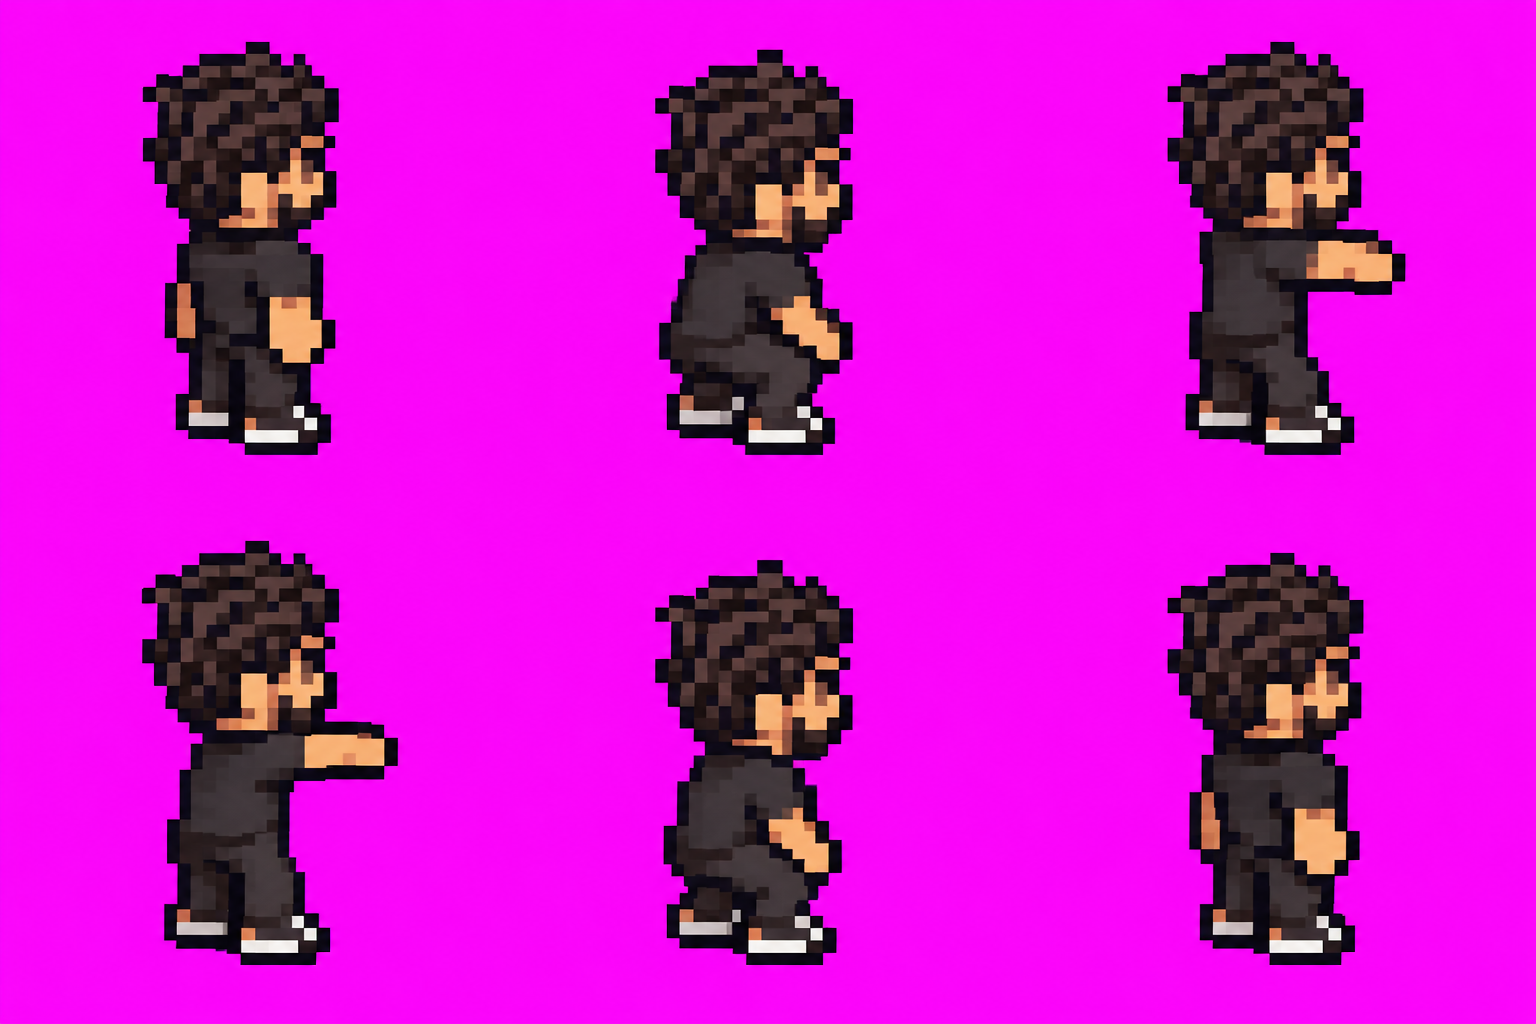
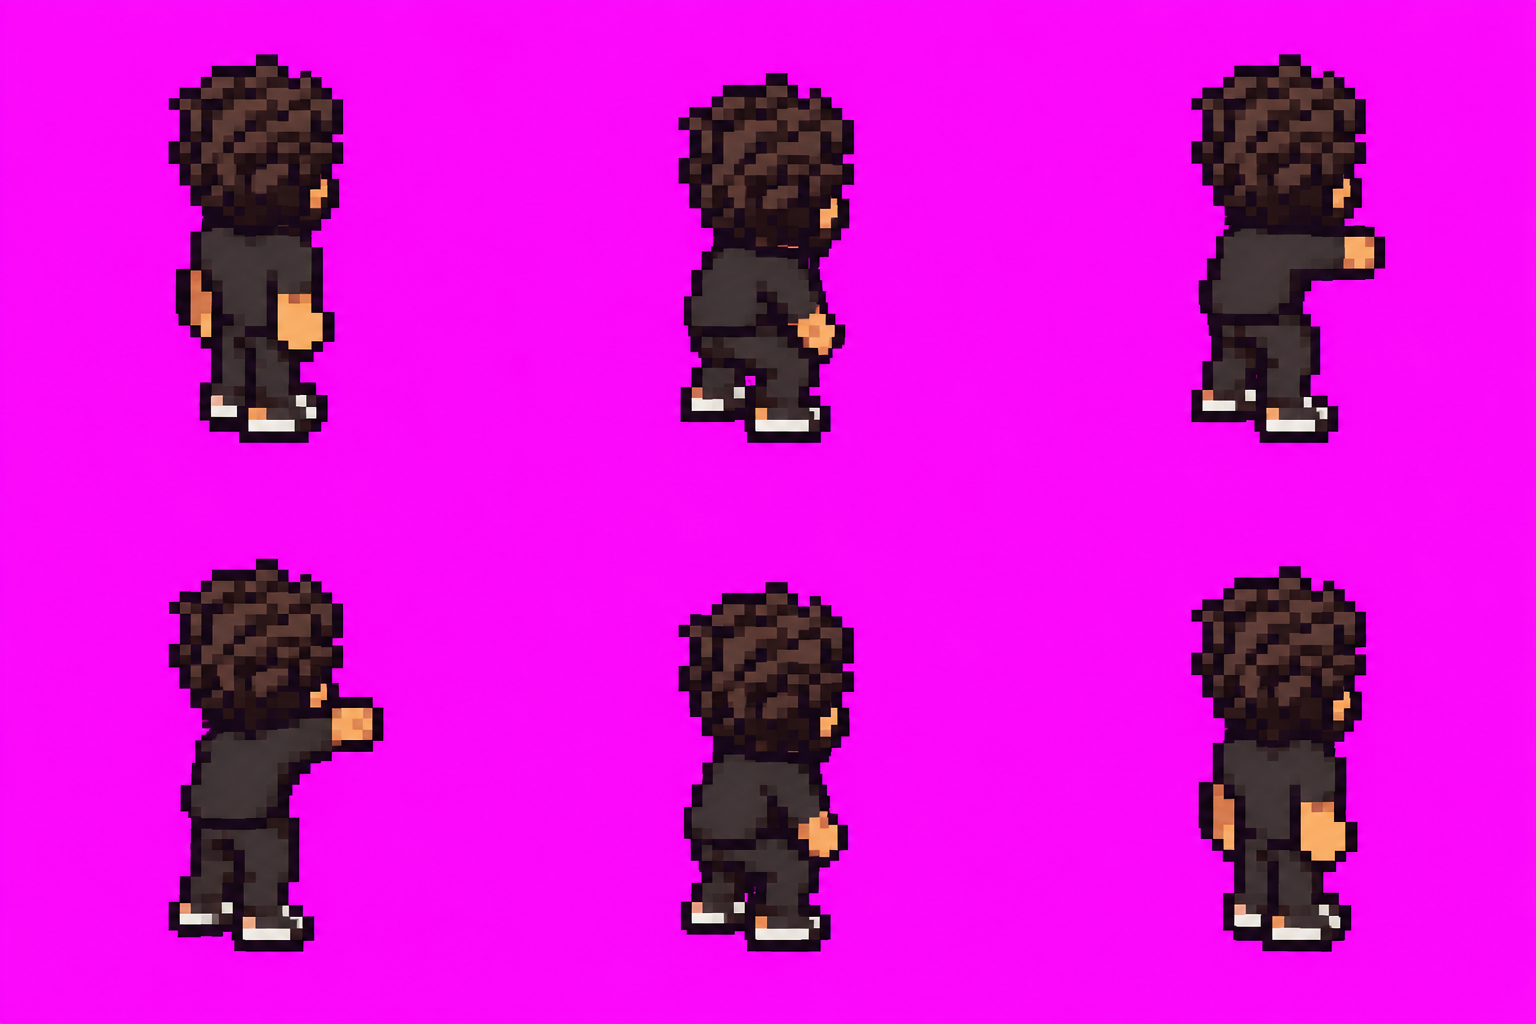
fix(pixel-art): vôlei e manchete do jpgma de costas no nordeste
As folhas do nordeste saíam de perfil. Geradas de novo no ChatGPT com a
vista de costas pedida no prompt; os quadros de nordeste e noroeste foram
trocados no .aseprite e a folha montada de novo.

diff --git a/pixel-art/jpgma/prompts-chatgpt.md b/pixel-art/jpgma/prompts-chatgpt.md
@@ -12,6 +12,8 @@
 
 São 52 gerações, com as mesmas grades e tamanhos do base masculino.
 
+**Nordeste de costas:** em `volei` e `manchete`, o ChatGPT vira o nordeste de perfil. Acrescente ao fim do prompt "IMPORTANT VIEW: the reference shows the character from behind, in a three-quarter back view (…) Do not turn the character to a side profile or toward the viewer", e, se ainda sair de perfil, peça no mesmo chat para redesenhar de costas. Para trocar os quadros de uma direção depois do `esportes.py`, o `import_image` do pixel-mcp substitui a cel do quadro.
+
 ## 2. Prompts
 
 Cada prompt é completo: grade, personagem, objetos, ação e estilo num bloco só, pronto para colar.
